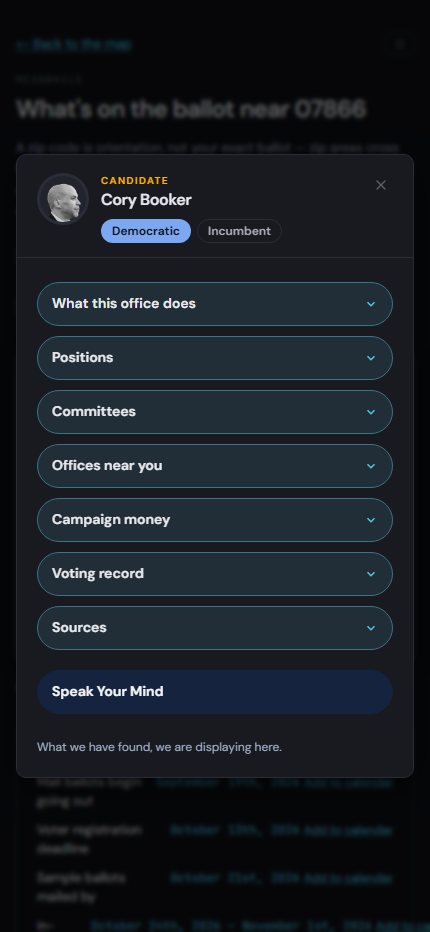
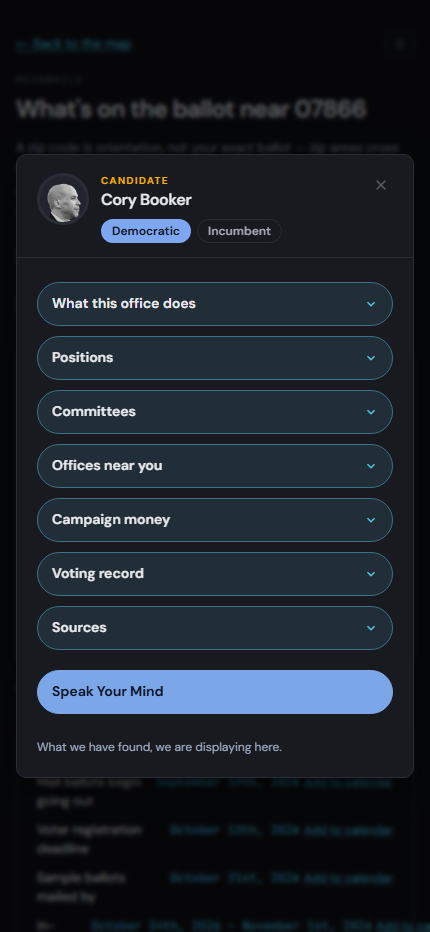
The flake sweep ran as designed and caught something: 367 healthy, 1 flaky, 0 real
Three walks of ONE unchanged local production build, on the same server, so
"unchanged" is true by construction rather than by intent.

  walk 1   368 ok · 11 could-not-run · 0 FAIL
  walk 2   368 ok · 11 could-not-run · 0 FAIL   — identical to walk 1
  walk 3   one FAIL

  FLAKY  [g12] the matcher ruling: an exact name navigates and asks nothing
         at 03255 — failed 1, passed 2

The first two walks being byte-identical is what makes walk 3's failure a flake
rather than a change, and a single run can never produce FLAKY by construction
— so this classification REQUIRED the third walk. It is the same identity the
earlier two-walk sweep found; the entry is rewritten with three-run evidence.

TWO CORRECTIONS RECORDED RATHER THAN SMOOTHED:

  · NH179 says docs/walk-flakes.json does not exist. It does, from a two-walk
    sweep committed as 64da0d7. The row is right that the sweep had never run
    as DESIGNED — the classifier needs three — and wrong that the file was
    absent.

  · DEP0190: spawnSync with `shell: true` concatenates args rather than
    escaping them. Harmless here, both args being literals in this file, and
    still worth not doing — a warning nobody can act on is noise in the one
    instrument whose job is making a signal legible. `pnpm.cmd` on Windows,
    no shell.

DARK-2 re-verified on the case that caught it, and in BOTH themes on the
reader's own route:

  light  data-theme="light"  pill rgb(22,35,63)   text rgb(244,246,250)
[…]

Changed region(s): [[0.0907, 0.7157, 0.9372, 0.7779]]

diff --git a/docs/log.md b/docs/log.md
@@ -27,7 +27,7 @@ are hard-removed from both stores — this list is the whole surviving record.
 
 ## all-open-0826 · 2026-08-26
 
-**What it finished.** 7 row(s).
+**What it finished.** 9 row(s).
 
 - **RO05** — Left standing deliberately by the recovery session of 2026-08-25, whose brief put them out of scope in as many words. Counted after the two RO04 errors were fixed: 28 warnings, 0 errors. The dominant category by far is @typescript-eslint/no-unused-vars, which the config allows to be silenced by prefixing the name with an underscore - it covers unused imports in components/map/coverage-notice.tsx, components/map/map-canvas.tsx, components/map/popup/official-popup.tsx, components/officials/member-directory.tsx, hooks/use-recent-zips.ts, lib/photos/review.ts, lib/signal/aggregate.ts and scripts/deploy-live.mjs, and unused args in components/ballot/where-to-vote.tsx. One is a different shape and is worth a moment rather than a rename: lib/ops/job-watch-log.ts:112 carries an eslint-disable for no-control-regex that reports as an UNUSED directive, meaning the rule it suppresses no longer fires there and the comment is now noise. None of these can turn red on their own, since eslint exits non-zero on errors only.
 - **NH180** — Measured 2026-08-25 by part2-0825. The file stood at 203,556 bytes at session start against a 204,800-byte per-file cap on the Drive code mirror — 1,244 bytes of headroom, 99.4% spent before the session wrote a line. Four fixes with their rationale attached took it past, and the cap was raised from 200 KB to 256 KB in scripts/mirror-code.mjs. THAT IS THE SECOND RAISE ON THE SAME FILE FOR THE SAME REASON: the author raised it from 120 KB on 2026-08-17 when the same thing happened. RULING 106 says a third raise is the wrong answer — raising a limit treats a symptom and by the third time the limit is the problem. The measurement that says the cap has stopped measuring what it was for: 116,399 of 205,461 bytes are COMMENT PROSE, across 300 blocks, against 89,062 bytes of actual CSS. The cap exists so the design tokens stay reachable in the mirror; the tokens are in the 89 KB and the ceiling is being spent by session rationale that CLAUDE.md requires to stay attached, so trimming it is not available. The structural options are to split the stylesheet so the tokens mirror on their own, or to mirror tokens rather than the whole file. Both change what the author reads and are his call.
@@ -36,6 +36,8 @@ are hard-removed from both stores — this list is the whole surviving record.
 - **NH196** — 2026-08-25, part2-0825. Run as `SHOOT_BASE_URL=http://localhost:3177 corepack pnpm -s walk:all` against a freshly built default-mode local production server answering HTTP 200 on that port. It emitted NOTHING — not a header, not a first check, not an error — for twenty minutes, and was killed under RULING 146's five-silent-minutes rule. Two facts worth keeping. FIRST, the default base is port 3000 and there is no flag for it: running `pnpm walk:all` with a server on any other port fails with a raw ECONNREFUSED stack trace naming ::1:3000, which is a correct refusal wearing the least readable possible face. SHOOT_BASE_URL is the only way in and the script's own header documents it, so this is a discoverability defect rather than a wall. SECOND, whether the silence is buffering through `pnpm -s` with no TTY, or a genuine hang, is UNDETERMINED — a zero-byte output file cannot tell those apart, which is exactly the ambiguity RULING 24 says must not be collapsed. The standing rule in CLAUDE.md is that every session ends by running this suite, so a suite that cannot be observed while it runs is a suite sessions will stop running. It needs to print its first check before it does any work. NH176 already records a separate defect in it — a different single check failing on each of four consecutive runs against an unchanged tree.
 - **NS15** — pnpm walk:all found it: the deploy's database was missing two committed migrations, 0019_next_scarlet_witch and 0020_dazzling_deathbird, both of which create and extend the speak_your_mind table. They were merged this morning with the feature (1803be2) and never applied. The surface is LIVE — components/speak/speak-your-mind.tsx renders inside the official and entity modals and /api/speak answers — so on production every insert naming those columns failed, the route caught it, and the page served normally. A reader typing what they would say to their representative got no error and their words were dropped. THE SESSION APPLIED THEM rather than opening this and waiting, because it is live data loss on a collection surface and the migrations are additive and were authored to be applied: 6 statements, journal now 21 of 21 committed and 0 pending, verified by a second dry run. This row is here because you should know a session wrote to the production database, and because the question worth your judgement is the OTHER half: how many readers typed into that box between the merge and now, and whether anything should be said to them. Nothing about the identity boundary changed — speak_key_hash carries its own digest prefix per RULING 141 and tests/db-schema.test.ts passes.
 - **R59** — Both Refresh (daily, all sources) runs on 2026-08-25 failed at the 'Validate before committing' step, so NOTHING was committed and the meetings snapshot has not refreshed: run 32833989579 at 09:49Z on schedule against 2f86b57, and run 32890394279 at 19:35Z by manual dispatch against 0160e3b. The failing guard is the F22 assertion in tests/refresh-corollary.test.ts - 'every source whose rows outrun the serving window declares its own' - and the single offender is clerksboards, reported as 'oldest row 2026-05-27, declared window 90d'. This is DATE DRIFT rather than a code change: 90 days before 2026-08-25 is 2026-05-27, so the oldest row has just reached the edge of the declared window, which is why the same guard PASSES locally on the same tree and failed on the runner. It will fail on every run from here as the gap widens. The fix the assertion itself names is to declare publishedLookbackDays on the clerksboards adapter, with null meaning the publisher's whole archive; the judgement is which of those clerksboards actually wants, and that is a question about the source rather than about the guard. NOT DIAGNOSED FURTHER HERE - the recovery brief's scope was green main and the accounting, and this is recorded rather than fixed. NOTE ON RULING 115: two consecutive failures normally raise a Needs Sean row, and only one of these two runs was on its own cadence; the other was a manual dispatch and is a drill by that ruling's test.
+- **NH176** — Measured 2026-08-25 against one local production build, four consecutive runs, no code or data changing between them. Every run: 372 passed, 6 declared COULD NOT RUN, and exactly ONE failure — a different one each time. Run 1: [promptD] the schema check, which was REAL and deterministic (the local Neon branch was at 19 of 21 migrations) and has passed on every run since it was applied. Run 2: [g12] an exact name navigates and asks nothing at 07866, offered="Board of County Commissioners — Board of County Commissioners - Work Session" — the IDENTICAL string that PASSED in run 1. Run 3: [g5] north Tucson renders crisp, not muted, at city zoom, delta 8.61 against a 2.5 threshold. Run 4: [g12] again, at 03255 this time. WHY THIS IS A P1 RATHER THAN AN ANNOYANCE: the whole premise of this suite is that a failure is a NAMED REGRESSION — 'the win <session> shipped is undone' — and every session is required to run it and report the result. A suite that fails one arbitrary check per run teaches a session to look at the failure, decide it is probably the flaky kind, and move on. That is the CLAUDE.md failure this repo names most often, arriving through the instrument built to prevent it, and it means the ONE deterministic failure in run 1 could just as easily have been shrugged off. THE SHAPE OF THE FLAKES: both families settle a browser interaction or measure a canvas. g12 waits for the ask box to route and reads what it offered; g5 diffs a rendered map region against the same region with an effect off. Both are timing-dependent and both already carry settle logic — the question is whether the settle condition is the right one, not whether to raise a threshold. Raising a threshold to fit the change it was supposed to catch is what a ceiling raised to fit is (CLAUDE.md), and this row is not a request to do that. WHAT WOULD SETTLE IT: run walk:all N times against one unchanged build and record which check identities fail at least once — the suite already prints stable check identities, so the census is mechanical. A flaky identity is then a known set a run can report against, which is the difference between 'one check failed, and it is one of the four we know are timing-dependent' and 'something broke'.
+- **NH179** — Item 13's machinery shipped 2026-08-25: lib/ops/flake-quarantine.ts classifies a check from N runs of one unchanged build, walk:all consults docs/walk-flakes.json and reports a quarantined check as its own fourth outcome that is never counted passing, and pnpm flake:sweep runs the walk N times and writes the verdict. 8 guards, including NH176's four real runs replayed. WHAT IS NOT DONE: the sweep has not been run, so docs/walk-flakes.json does not exist and nothing is quarantined yet. The classifier is deliberately unable to call anything flaky from one run — it takes a PASS on the same unchanged tree — so a single walk cannot populate it. Run pnpm flake:sweep --runs=3 --write against one local production build and the quarantine fills itself; until then walk:all behaves exactly as it did before, which is the honest state rather than a silent one.
 
 **What it started.** 5 row(s) opened, 5 still open.
 
@@ -90,7 +92,7 @@ are hard-removed from both stores — this list is the whole surviving record.
 
 ## one-session-0825-nonhunt · 2026-08-25
 
-**What it started.** 9 row(s) opened, 9 still open.
+**What it started.** 9 row(s) opened, 8 still open.
 
 - **NS16** — The brief for 2026-08-25 names docs/feedback/we-the-people-feedback-2026-08-25.md as AUTHORITATIVE and says its carryover table is law. That file is not in the repo, not in the Drive mirror root, and not in the Drive screenshots folder — searched all three at session start. The 17 captures ARE committed and were read; only the document is missing. The same is true of the 8/24 document: the LAY, BC, WGH and ASK ids exist in briefs and commit messages and in no committed file, so a session cannot check an id against anything. RULING 108 is exactly this: anything a session must read at session start lives in the repo, because a session has a shell and a clone. This session worked from the brief's prose plus the captures and says so rather than pretending it had the document. THE QUESTION: would you rather (a) paste the feedback doc into docs/feedback/<date>/ as part of each walkthrough, so a session can diff its ids against something, or (b) keep it in chat and accept that ids are only ever as good as the brief that quotes them? If (a), it is one paste and nothing else changes. *(open)*
 - **NH177** — Read from Netlify's deploy API on 2026-08-25 while answering Item 6's verdict (a). Of the last 60 production deploys, these reached state 'error' and were never published: 3449eb8 (PR #177), 41113c1 (PR #171), 55d3047 (PR #170) and e0f6426 (this morning's intake tripwire). Three are real CODE merges. Each was covered by a later successful merge so nothing was permanently lost — but between the merge and that later deploy production was serving older code, and no instrument in this repo reports it. This is NJ25's shape still alive. It did NOT cause any of the six recurrences in Item 6 (all three testable claims were live in d43adf7 during Sean's walk), which is why it is a row rather than part of that verdict. RULING 152 now says a reader-facing DONE names the deploy that carries it; what is still missing is something that NOTICES an errored deploy without being asked. pnpm deploy:live answers for the tip only. *(open)*
@@ -100,7 +102,6 @@ are hard-removed from both stores — this list is the whole surviving record.
 - **PU07** — Measured 2026-08-25 against a local production build at 07866. The SERVER is fast — TTFB 22-94 ms — and the browser sees FCP 1,760 ms on the first cold navigation against 156-164 ms warm, DOMContentLoaded 62 ms, load 185 ms. So there is nothing to fix in the render path and the number that matters is the cold first paint, which is the size of the document: 386 KB of server-rendered HTML for 90+ contests and 276 candidacies. app/ballot/loading.tsx ships as the visible loading state the item required regardless. Reducing the document is the actual fix and is a bigger change than one item: candidate cards are fully rendered for every contest whether or not a reader ever scrolls to them, so the obvious lever is rendering contests below the fold on demand. That trades against the page being one server-rendered document a reader can search and a crawler can read, which is worth keeping. *(open)*
 - **NH178** — Reproduced 2026-08-25. deploy:live reads Netlify correctly and prints the full verdict — site, main tip, last deployable, live deploy id and state, live commit, and CURRENT — and then dies with 'Assertion failed: !(handle->flags & UV_HANDLE_CLOSING), file src/win/async.c, line 94' and ELIFECYCLE exit code 3221226505. That is a libuv teardown crash on Windows, after the work is done. It matters because RULING 125 makes this the ONE production question a close-out asks, and any caller that gates on its exit code reads a successful read as a failure — the exact shape of the defect NJ25 is about. The verdict itself is trustworthy; the exit code is not. *(open)*
 - **PU08** — Found 2026-08-25 while measuring BC-16. Counting .panel elements whose text contains PUBLIC MEETINGS returns 2 when one venue panel is open, and the entity modal's title renders twice in its own innerText ('Rockaway township' followed by 'Rockaway township'). Only one of each is visible, so this is not a reader-facing defect today — it is almost certainly the desktop and mobile placements both rendering with one hidden by CSS, which is the same pattern .rail-floaters and .map-bottom-stack use deliberately. It is a row because it made a measurement wrong: the BC-16 harness reported two panels open before anything had been clicked, and a duplicate node is a thing every future DOM count will have to know about. *(open)*
-- **NH179** — Item 13's machinery shipped 2026-08-25: lib/ops/flake-quarantine.ts classifies a check from N runs of one unchanged build, walk:all consults docs/walk-flakes.json and reports a quarantined check as its own fourth outcome that is never counted passing, and pnpm flake:sweep runs the walk N times and writes the verdict. 8 guards, including NH176's four real runs replayed. WHAT IS NOT DONE: the sweep has not been run, so docs/walk-flakes.json does not exist and nothing is quarantined yet. The classifier is deliberately unable to call anything flaky from one run — it takes a PASS on the same unchanged tree — so a single walk cannot populate it. Run pnpm flake:sweep --runs=3 --write against one local production build and the quarantine fills itself; until then walk:all behaves exactly as it did before, which is the honest state rather than a silent one. *(open)*
 
 **Needs Sean.** NS16, NS17, NS18, NS19
 
@@ -123,7 +124,7 @@ are hard-removed from both stores — this list is the whole surviving record.
 - **NJ25** — Read from the Netlify deploys API 2026-08-25 while getting this session's deploy id. Commit 26b357d, 'context.md, rewritten after shipping', deploy 6a8d1b7b08d04c00083024d8, context production, state ERROR. So production was serving ab4da20 rather than the tip of main from 04:35 until this session's merge deployed successfully at 07:38. Two of the six most recent production deploys are in state ERROR (41113c1b and 55d30471 as well), so this is a pattern rather than one bad build. Nothing in the close-out path notices: pnpm main:green asks GitHub whether the CHECKS passed, which they did, and a Netlify deploy failing afterwards is a different question that only the deploys API can answer — which is the same tool NJ24 says cannot currently answer it. The two rows belong together.
 - **NJ22** — pnpm photo:sheet builds portraits-pending.png from candidate cards that already carry a photoUrl and whose review state is PENDING. That is the right artifact for a portrait already in the product awaiting his yes or no. It cannot show a portrait that has been STAGED and not shipped, which is every portrait a hunt produces — 55 of them on 2026-08-24, of which two were judged queueable. The session built pnpm sheet to read them as images and put the verdicts in docs/photo-staging-2026-08-24.md, but the picture itself reached Sean's Drive only as a one-off dated file, which handoff correctly refused as EXTRA: the mirror's canonical set is standing documents, and a session dropping a dated artifact into it every night is exactly the drift that guard exists to stop. So the two queued portraits are named in the doc with their source URLs and the sheet regenerates with one command, and that is worse for him than a picture would be. What is owed is a decision about where staged portraits live — a second standing mirror file that is overwritten rather than dated, or a staging area photo:sheet reads alongside the shipped cards.
 
-**What it started.** 7 row(s) opened, 7 still open.
+**What it started.** 7 row(s) opened, 6 still open.
 
 - **NH170** — Three separate defects, all reproduced before they were touched, all fixed in final-pass-0825 — this row exists so the FOURTH is not lost. (1) legistar's composite wrapper re-branded the adapter's result through a second accountedNormalize call without countedButProduced, so every online meeting was counted once as produced and once as dropped; against the recorded Pima fixture the adapter reports CONSERVED 18 of 18 and the wrapper threw '4 more dispositions than records'. (2) nj-filing ran nj:filing:check BEFORE nj:ballot --write, and the check exits non-zero on STALE — so the staleness gate stopped the only command that could clear the staleness, and curatedAt froze on 2026-08-23. (3) The orchestrator's own header states a three-valued exit vocabulary and calls exit 2 'commit the survivors, THEN go red', and runCommand asked status === 0 — so the ingest's 'PARTIAL PROGRESS IS ON DISK AND MUST BE COMMITTED: 451 rows from 10 of 11 sources' was read exactly like a total failure and the workflow printed 'nothing usable was written'. WHAT IS STILL OWED: the daily refresh has not been verified end-to-end since the fixes. It runs at 09:11 UTC. Read the next run and confirm all three paths behave — and if legistar conserves and nj-filing rebuilds and a partial commits, close this. *(open)*
 - **NH171** — Run 32840268606, 2026-08-25 11:03 UTC. push-main.mjs retried five times and every attempt came back 'remote: fatal error in commit_refs' with '! [remote rejected] HEAD -> main (failure)'. That is a GitHub-side error rather than a rejected fast-forward — a rebase-and-retry cannot fix it and correctly did not. Nothing in this repo is broken by it and nothing was lost: the tripwire commits only under docs/, which the deploy filter classifies as non-shipping. Recorded so a SECOND occurrence is recognised as a pattern rather than diagnosed from scratch, and because RULING 24 says a check that could not run is reported separately from one that failed. If it recurs, the question is whether push-main should distinguish a remote-side fatal from a rejected push and stop retrying. *(open)*
@@ -131,7 +132,6 @@ are hard-removed from both stores — this list is the whole surviving record.
 - **NH173** — Read 2026-08-25. https://www.tapinto.net/robots.txt answers HTTP 403, so the policy that would say whether we may walk it cannot be read at all — and a 403 on a policy is not an implied yes. TAPinto is a hyperlocal NETWORK with per-town sites across New Jersey and is the largest press surface this county has that this project does not read; docs/sources.md already recorded it walled at rung 3 on 2026-08-24. lib/hunt/press-surface.ts records it as UNREADABLE, which is a third state beside PERMITTED and DISALLOWED and is deliberately not either. Routes not yet walked: the Internet Archive's capture of the robots.txt (rung 11), which would establish what the policy SAYS even if the live file refuses; and asking the publisher directly, which is rung 13 and is a real option for a local outlet. *(open)*
 - **NH174** — pnpm door2 walked all 19 candidacies on the 07866 ballot who are people this repo already records sitting on a governing body — the class your 8/24 ruling pre-approves — at the MEMBER'S OWN page rather than the body's index, which was NJ13's defect. 19 of 19 pages answered, 0 walls. Six portraits found, four of them new: Jennifer Rowland (Chatham Township), Russell Goodwin and Michael Dominianni (Chester Borough), Sean Mabey (Kinnelon), Kyle Russell and Melissa Florance-Lynch (Pequannock). Each is name-matched on the person's own municipal .gov page, read as an img element and never an og:image. ZERO shipped, which is the rule for a candidate portrait and is not something a hunt gets to decide. The queue is data/photos/door2-incumbents-2026-08-25.json. Two phones from the same walk DID ship — Nancy Verga and Melissa Fostle — because a number a town publishes beside a named member is a fact checkable by dialling it, where a portrait's failure mode is a wrong face beside a real name. *(open)*
 - **NH175** — 2026-general-candidate-order-081026.pdf, the third document on the Morris County Clerk's candidates page. Read 2026-08-25: 7 pages, every one rendering with NO text layer, so the extractor correctly reports ZERO_ROWS with the reason 'this is a scanned PDF. The next rung is OCR (lib/extract/ocr.ts), NOT a finding that the document is empty'. Both the filing parser and nj:filing:check exclude it by name and say why, which is right — including it would produce a guaranteed zero-row parse. What it carries is the BALLOT POSITION of every candidate, drawn by lot, which decides the order a reader meets them on a real ballot and which this product does not hold. lib/extract/ocr.ts exists. Nobody has pointed it at this document. *(open)*
-- **NH176** — Measured 2026-08-25 against one local production build, four consecutive runs, no code or data changing between them. Every run: 372 passed, 6 declared COULD NOT RUN, and exactly ONE failure — a different one each time. Run 1: [promptD] the schema check, which was REAL and deterministic (the local Neon branch was at 19 of 21 migrations) and has passed on every run since it was applied. Run 2: [g12] an exact name navigates and asks nothing at 07866, offered="Board of County Commissioners — Board of County Commissioners - Work Session" — the IDENTICAL string that PASSED in run 1. Run 3: [g5] north Tucson renders crisp, not muted, at city zoom, delta 8.61 against a 2.5 threshold. Run 4: [g12] again, at 03255 this time. WHY THIS IS A P1 RATHER THAN AN ANNOYANCE: the whole premise of this suite is that a failure is a NAMED REGRESSION — 'the win <session> shipped is undone' — and every session is required to run it and report the result. A suite that fails one arbitrary check per run teaches a session to look at the failure, decide it is probably the flaky kind, and move on. That is the CLAUDE.md failure this repo names most often, arriving through the instrument built to prevent it, and it means the ONE deterministic failure in run 1 could just as easily have been shrugged off. THE SHAPE OF THE FLAKES: both families settle a browser interaction or measure a canvas. g12 waits for the ask box to route and reads what it offered; g5 diffs a rendered map region against the same region with an effect off. Both are timing-dependent and both already carry settle logic — the question is whether the settle condition is the right one, not whether to raise a threshold. Raising a threshold to fit the change it was supposed to catch is what a ceiling raised to fit is (CLAUDE.md), and this row is not a request to do that. WHAT WOULD SETTLE IT: run walk:all N times against one unchanged build and record which check identities fail at least once — the suite already prints stable check identities, so the census is mechanical. A flaky identity is then a known set a run can report against, which is the difference between 'one check failed, and it is one of the four we know are timing-dependent' and 'something broke'. *(open)*
 
 **Needs Sean.** NH174
 

diff --git a/docs/tracker.md b/docs/tracker.md
@@ -14,7 +14,7 @@ and when. Nothing is ever deleted.
 
 ## Where the project stands
 
-- **282 open**, 427 resolved.
+- **280 open**, 429 resolved.
 - **48 waiting on Sean** — the first section below.
 - P1 by section:
   - Needs Sean — **2**
@@ -25,7 +25,7 @@ and when. Nothing is ever deleted.
   - Data infrastructure — **1**
   - Product / UI — **1**
   - Constitution & rules — **1**
-  - Repo & ops — **3**
+  - Repo & ops — **2**
 
 No section is over the five-P1 cap.
 
@@ -723,15 +723,13 @@ CLAUDE.md, docs/rulings.md, and the guard tests that enforce them. The amendment
 
 CI, tests, workflows, storage, the machinery the project runs on.
 
-**21 open · 78 resolved.**
+**19 open · 80 resolved.**
 
 ### P1
 
 **JOB03** — The scheduled job refresh-meetings-snapshot.yml failed on two CONSECUTIVE runs (32372995194 and 32342602616), both at: Validate before committing, and has since gone green on its own. It is not broken right now. Nobody found out why it broke, so the next occurrence starts from the same nothing — which is why this is a row rather than a shrug. This watcher runs once a day and used to read only the two most recent runs, so a double failure that healed in between was invisible to it (NJ Hunt 3 item 1c). Over its last 40 completed runs it has failed 17 time(s). Two consecutive failures is evidence the cause is ours rather than a host refusing on a schedule — a wall would not usually repeat exactly. RULING 56 opens this automatically so a degrading data path is not a page nobody watches. [job-watch:refresh-meetings-snapshot.yml]
 
 **NH170** — Three separate defects, all reproduced before they were touched, all fixed in final-pass-0825 — this row exists so the FOURTH is not lost. (1) legistar's composite wrapper re-branded the adapter's result through a second accountedNormalize call without countedButProduced, so every online meeting was counted once as produced and once as dropped; against the recorded Pima fixture the adapter reports CONSERVED 18 of 18 and the wrapper threw '4 more dispositions than records'. (2) nj-filing ran nj:filing:check BEFORE nj:ballot --write, and the check exits non-zero on STALE — so the staleness gate stopped the only command that could clear the staleness, and curatedAt froze on 2026-08-23. (3) The orchestrator's own header states a three-valued exit vocabulary and calls exit 2 'commit the survivors, THEN go red', and runCommand asked status === 0 — so the ingest's 'PARTIAL PROGRESS IS ON DISK AND MUST BE COMMITTED: 451 rows from 10 of 11 sources' was read exactly like a total failure and the workflow printed 'nothing usable was written'. WHAT IS STILL OWED: the daily refresh has not been verified end-to-end since the fixes. It runs at 09:11 UTC. Read the next run and confirm all three paths behave — and if legistar conserves and nj-filing rebuilds and a partial commits, close this.
-
-**NH176** — Measured 2026-08-25 against one local production build, four consecutive runs, no code or data changing between them. Every run: 372 passed, 6 declared COULD NOT RUN, and exactly ONE failure — a different one each time. Run 1: [promptD] the schema check, which was REAL and deterministic (the local Neon branch was at 19 of 21 migrations) and has passed on every run since it was applied. Run 2: [g12] an exact name navigates and asks nothing at 07866, offered="Board of County Commissioners — Board of County Commissioners - Work Session" — the IDENTICAL string that PASSED in run 1. Run 3: [g5] north Tucson renders crisp, not muted, at city zoom, delta 8.61 against a 2.5 threshold. Run 4: [g12] again, at 03255 this time. WHY THIS IS A P1 RATHER THAN AN ANNOYANCE: the whole premise of this suite is that a failure is a NAMED REGRESSION — 'the win <session> shipped is undone' — and every session is required to run it and report the result. A suite that fails one arbitrary check per run teaches a session to look at the failure, decide it is probably the flaky kind, and move on. That is the CLAUDE.md failure this repo names most often, arriving through the instrument built to prevent it, and it means the ONE deterministic failure in run 1 could just as easily have been shrugged off. THE SHAPE OF THE FLAKES: both families settle a browser interaction or measure a canvas. g12 waits for the ask box to route and reads what it offered; g5 diffs a rendered map region against the same region with an effect off. Both are timing-dependent and both already carry settle logic — the question is whether the settle condition is the right one, not whether to raise a threshold. Raising a threshold to fit the change it was supposed to catch is what a ceiling raised to fit is (CLAUDE.md), and this row is not a request to do that. WHAT WOULD SETTLE IT: run walk:all N times against one unchanged build and record which check identities fail at least once — the suite already prints stable check identities, so the census is mechanical. A flaky identity is then a known set a run can report against, which is the difference between 'one check failed, and it is one of the four we know are timing-dependent' and 'something broke'.
 
 ### P2
 
@@ -740,8 +738,6 @@ CI, tests, workflows, storage, the machinery the project runs on.
 **NH139** — The external audit of ae5b178 read 50 files of an unestablished denominator and did not perform Phase 2, the Drive consistency check. Neither number is known. A second pass owes both: the denominator of files that exist and should have been read, and the Drive comparison that was never run.
 
 **NH177** — Read from Netlify's deploy API on 2026-08-25 while answering Item 6's verdict (a). Of the last 60 production deploys, these reached state 'error' and were never published: 3449eb8 (PR #177), 41113c1 (PR #171), 55d3047 (PR #170) and e0f6426 (this morning's intake tripwire). Three are real CODE merges. Each was covered by a later successful merge so nothing was permanently lost — but between the merge and that later deploy production was serving older code, and no instrument in this repo reports it. This is NJ25's shape still alive. It did NOT cause any of the six recurrences in Item 6 (all three testable claims were live in d43adf7 during Sean's walk), which is why it is a row rather than part of that verdict. RULING 152 now says a reader-facing DONE names the deploy that carries it; what is still missing is something that NOTICES an errored deploy without being asked. pnpm deploy:live answers for the tip only.
-
-**NH179** — Item 13's machinery shipped 2026-08-25: lib/ops/flake-quarantine.ts classifies a check from N runs of one unchanged build, walk:all consults docs/walk-flakes.json and reports a quarantined check as its own fourth outcome that is never counted passing, and pnpm flake:sweep runs the walk N times and writes the verdict. 8 guards, including NH176's four real runs replayed. WHAT IS NOT DONE: the sweep has not been run, so docs/walk-flakes.json does not exist and nothing is quarantined yet. The classifier is deliberately unable to call anything flaky from one run — it takes a PASS on the same unchanged tree — so a single walk cannot populate it. Run pnpm flake:sweep --runs=3 --write against one local production build and the quarantine fills itself; until then walk:all behaves exactly as it did before, which is the honest state rather than a silent one.
 
 **NH181** — Found 2026-08-25 by part2-0825 while closing NS16. The 8/25 Part 2 document is now at docs/feedback/we-the-people-feedback-2026-08-25-part2.md and is the FIRST one that has ever been there. The captures for every batch are committed and reachable; the DOCUMENTS are not. Missing: the 8/22 walkthrough (captures at docs/feedback/2026-08-22/, 21 files), the 8/24 walkthrough (docs/feedback/8.24/, 16 files) and the 8/25 morning walkthrough (docs/feedback/8.25/, 19 files). Each has been cited as authoritative by at least one session brief, and RULING 108 says anything a session must read at session start lives in the repo. docs/feedback/README.md is the index and names all three as missing. Only the author can supply the text — a session cannot reconstruct a dictation it never had.
 
